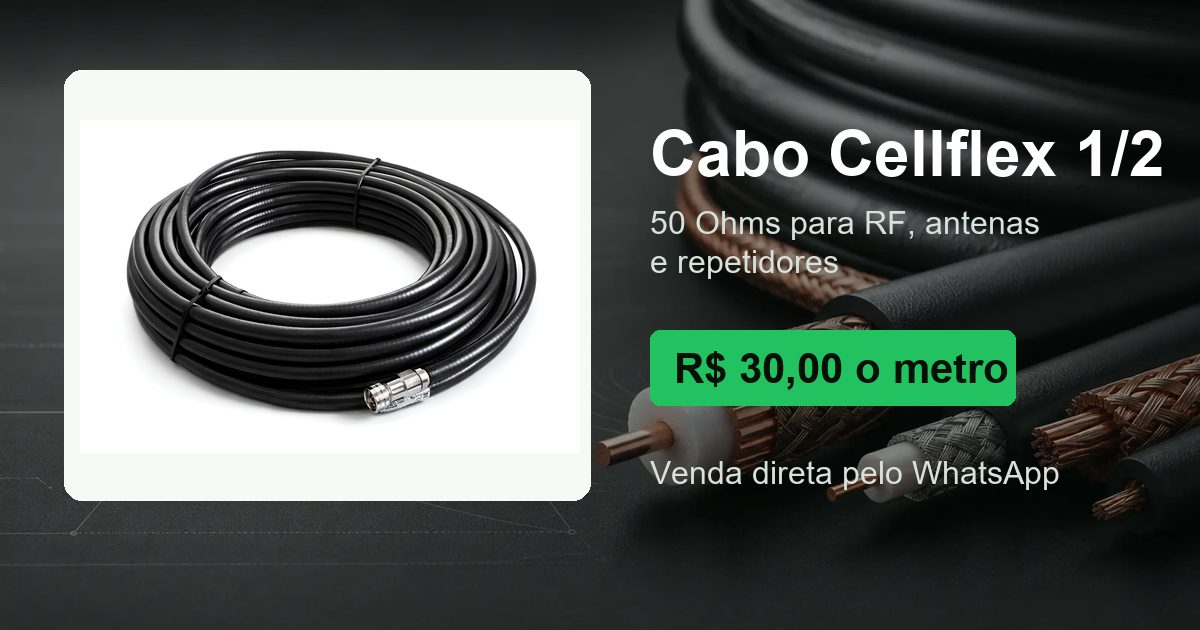
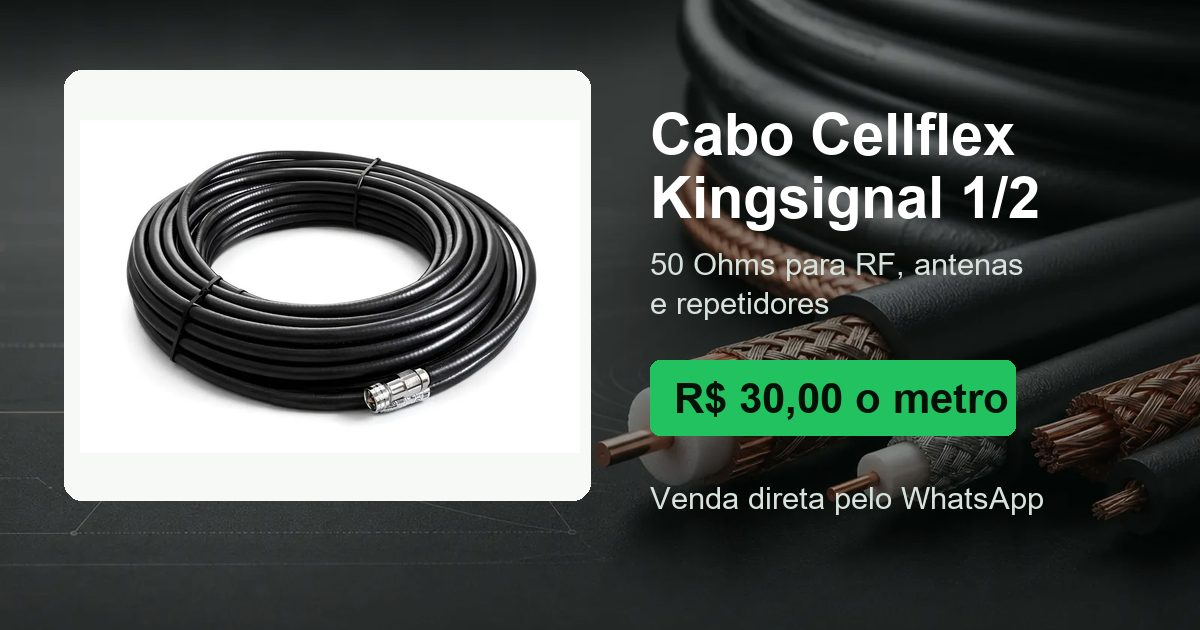
Update landing page for Kingsignal brand and custom domain

Changed region(s): [[0.5242, 0.181, 0.9867, 0.6937], [0.5242, 0.7238, 0.8942, 0.8143]]

diff --git a/index.html b/index.html
@@ -1,26 +1,26 @@
-<!doctype html><html lang="pt-BR"><head><meta charset="utf-8"><meta name="viewport" content="width=device-width,initial-scale=1"><title>Cabo Cellflex 1/2 50 Ohms por metro | R$ 30,00 | WhatsApp</title><meta name="description" content="Compre Cabo Cellflex 1/2 50 Ohms por metro por R$ 30,00. Cabo coaxial para antenas, radio, repetidoras, telecom e instalacoes RF. Atendimento direto pelo WhatsApp."><meta name="robots" content="index, follow"><meta name="theme-color" content="#07100d"><link rel="canonical" href="https://cabo-cellflex.pages.dev/"><link rel="icon" type="image/png" href="assets/favicon.png"><link rel="apple-touch-icon" href="assets/apple-touch-icon.png"><link rel="preload" as="image" href="assets/rf-technical-bg.webp" fetchpriority="high"><link rel="preload" as="image" href="assets/hero-product.jpg" fetchpriority="high"><meta property="og:type" content="product"><meta property="og:locale" content="pt_BR"><meta property="og:title" content="Cabo Cellflex 1/2 por metro"><meta property="og:description" content="Cabo coaxial Cellflex 1/2 50 Ohms por R$ 30,00 o metro. Venda direta pelo WhatsApp."><meta property="og:url" content="https://cabo-cellflex.pages.dev/"><meta property="og:image" content="https://cabo-cellflex.pages.dev/assets/og-cabo-cellflex.jpg"><meta name="twitter:card" content="summary_large_image"><meta name="twitter:title" content="Cabo Cellflex 1/2 50 Ohms por metro"><meta name="twitter:description" content="R$ 30,00 o metro. Atendimento direto pelo WhatsApp."><meta name="twitter:image" content="https://cabo-cellflex.pages.dev/assets/og-cabo-cellflex.jpg"><style>:root{--bg:#f3f6f4;--surface:#ffffff;--ink:#07100d;--muted:#58625d;--line:#d9e0dc;--accent:#18a957;--accent-dark:#087238;--hero:#07100d;--radius:8px;--shadow:0 24px 80px rgb(7 16 13 / 0.18)}*{box-sizing:border-box}html{scroll-behavior:smooth}body{margin:0;background:var(--bg);color:var(--ink);font-family:ui-sans-serif,system-ui,-apple-system,BlinkMacSystemFont,"Segoe UI",sans-serif;font-size:16px;line-height:1.5;text-rendering:optimizeLegibility}img{display:block;max-width:100%;height:auto}a{color:inherit}.skip-link{position:absolute;left:16px;top:-80px;z-index:20;padding:10px 14px;border-radius:var(--radius);background:var(--surface);color:var(--ink);transition:top 160ms ease}.skip-link:focus{top:16px}.page{min-height:100dvh}.container{width:min(1120px,calc(100% - 40px));margin:0 auto}.topbar{position:absolute;inset:0 0 auto;z-index:5;color:#fff}.nav{display:flex;align-items:center;justify-content:space-between;gap:20px;min-height:76px}.brand{display:inline-flex;align-items:center;gap:10px;font-weight:800;text-decoration:none;white-space:nowrap}.brand-mark{width:34px;height:34px;border-radius:7px;background:linear-gradient(135deg,rgb(255 255 255 / .95),rgb(209 233 222 / .72)),var(--accent);position:relative}.brand-mark::after{content:"";position:absolute;left:8px;right:8px;top:15px;height:4px;border-radius:99px;background:var(--hero)}.nav-links{display:flex;align-items:center;gap:24px;font-size:.94rem}.nav-links a{color:rgb(255 255 255 / .82);text-decoration:none}.nav-links a:focus-visible,.nav-links a:hover{color:#fff}.button{display:inline-flex;align-items:center;justify-content:center;min-height:48px;padding:0 20px;border:1px solid transparent;border-radius:var(--radius);font-weight:800;text-decoration:none;white-space:nowrap;transition:transform 140ms ease,background 140ms ease,border-color 140ms ease}.button:active{transform:translateY(1px)}.button-primary{background:var(--accent);color:#041008}.nav-links a.button-primary{color:#041008}.button-primary:focus-visible,.button-primary:hover{background:#2bd06d}.button-secondary{border-color:rgb(255 255 255 / .28);color:#fff;background:rgb(255 255 255 / .06)}.button-secondary:focus-visible,.button-secondary:hover{border-color:rgb(255 255 255 / .55);background:rgb(255 255 255 / .1)}.hero{position:relative;overflow:hidden;min-height:100dvh;padding:120px 0 52px;background:linear-gradient(90deg,rgb(7 16 13 / .96) 0,rgb(7 16 13 / .78) 47%,rgb(7 16 13 / .56) 100%),image-set(url("assets/rf-technical-bg.webp") type("image/webp"));background-size:cover;background-position:center right;color:#fff}.hero-grid{display:grid;grid-template-columns:minmax(0,0.98fr) minmax(320px,0.82fr);align-items:center;gap:48px}.kicker{display:inline-flex;width:fit-content;align-items:center;gap:10px;margin:0 0 18px;padding:8px 10px;border:1px solid rgb(255 255 255 / .18);border-radius:var(--radius);background:rgb(255 255 255 / .08);color:rgb(255 255 255 / .84);font-size:.9rem}.kicker::before{content:"";width:9px;height:9px;border-radius:99px;background:var(--accent);box-shadow:0 0 0 5px rgb(24 169 87 / .18)}h1,h2,h3,p{margin-top:0}h1{max-width:10.8em;margin-bottom:22px;font-size:3.8rem;line-height:1.03;letter-spacing:0}.hero-copy{max-width:590px;margin-bottom:28px;color:rgb(255 255 255 / .82);font-size:1.18rem}.hero-actions{display:flex;flex-wrap:wrap;gap:12px;align-items:center}.price-panel{display:grid;grid-template-columns:auto 1fr;gap:18px;align-items:center;width:fit-content;margin-top:28px;padding:16px;border:1px solid rgb(255 255 255 / .14);border-radius:var(--radius);background:rgb(0 0 0 / .24)}.price{font-size:2rem;font-weight:900;line-height:1;color:#fff}.price small{display:block;margin-top:6px;color:rgb(255 255 255 / .7);font-size:.84rem;font-weight:600}.hero-product{position:relative;align-self:end}.product-frame{display:block;overflow:hidden;border:1px solid rgb(255 255 255 / .18);border-radius:var(--radius);background:#f7faf8;box-shadow:var(--shadow)}.product-frame picture{display:block}.product-frame img{width:100%;aspect-ratio:4/3;object-fit:contain}.hero-product .product-frame{background:#f7faf8 url("assets/hero-product.jpg") center/contain no-repeat}.hero-product .product-frame img{opacity:0}.stock-strip{display:grid;grid-template-columns:repeat(4,1fr);gap:1px;margin-top:18px;overflow:hidden;border:1px solid rgb(255 255 255 / .14);border-radius:var(--radius);background:rgb(255 255 255 / .14)}.stock-strip span{padding:14px 12px;background:rgb(7 16 13 / .76);color:rgb(255 255 255 / .78);font-size:.9rem;text-align:center}.trust-band{background:var(--hero);color:#fff;border-top:1px solid rgb(255 255 255 / .12)}.trust-grid{display:grid;grid-template-columns:repeat(4,1fr);gap:1px;background:rgb(255 255 255 / .12)}.trust-item{padding:20px;background:var(--hero)}.trust-item strong{display:block;margin-bottom:4px;font-size:1rem}.trust-item span{color:rgb(255 255 255 / .66);font-size:.9rem}section{padding:86px 0}.section-head{max-width:720px;margin-bottom:34px}.lead,.section-head p{color:var(--muted);font-size:1.08rem}h2{max-width:760px;margin-bottom:14px;font-size:2.45rem;line-height:1.08;letter-spacing:0}h3{margin-bottom:10px;font-size:1.2rem;line-height:1.25}.split{display:grid;grid-template-columns:minmax(0,0.9fr) minmax(0,1.1fr);gap:42px;align-items:center}.media-block{overflow:hidden;border:1px solid var(--line);border-radius:var(--radius);background:var(--surface)}.visual-bg{background-color:var(--surface);background-position:center;background-repeat:no-repeat;background-size:contain}.visual-bg img{opacity:0}.media-rolo{background-image:url("assets/cabo-cellflex-rolo.webp")}.media-corte{background-image:url("assets/corte-cabo-cellflex.jpg")}.media-conector{background-image:url("assets/conector-uhf-pl259.jpg")}.media-close{background-image:url("assets/conector-pl259-close.jpg")}.media-block img{width:100%;aspect-ratio:5/4;object-fit:contain}.copy-list{display:grid;gap:14px;margin:26px 0 0;padding:0;list-style:none}.copy-list li{position:relative;padding-left:24px;color:var(--muted)}.copy-list li::before{content:"";position:absolute;left:0;top:.72em;width:9px;height:9px;border:2px solid var(--accent);border-radius:99px}.spec-grid{display:grid;grid-template-columns:repeat(4,1fr);gap:14px;margin-top:32px}.faq-item,.spec-card,.use-card{border:1px solid var(--line);border-radius:var(--radius);background:var(--surface)}.spec-card{padding:20px}.spec-card span{display:block;margin-bottom:10px;color:var(--accent-dark);font-size:.86rem;font-weight:800}.spec-card strong{display:block;font-size:1.05rem}.dark-section{background:#101815;color:#fff}.dark-section .lead,.dark-section .section-head p{color:rgb(255 255 255 / .68)}.use-grid{display:grid;grid-template-columns:repeat(3,1fr);gap:14px}.use-card{min-height:178px;padding:22px;background:rgb(255 255 255 / .055);border-color:rgb(255 255 255 / .12)}.use-card p{color:rgb(255 255 255 / .66)}.gallery{display:grid;grid-template-columns:1fr 1fr;gap:14px}.gallery .media-block:first-child{grid-row:span 2}.gallery img{width:100%;aspect-ratio:4/3;object-fit:contain}.buy-box{display:grid;grid-template-columns:minmax(0,0.78fr) minmax(280px,0.42fr);gap:28px;align-items:stretch;padding:30px;border-radius:var(--radius);background:var(--surface);border:1px solid var(--line)}.buy-price{display:flex;flex-direction:column;justify-content:space-between;gap:20px;padding:22px;border-radius:var(--radius);background:#102018;color:#fff}.buy-price strong{display:block;font-size:2.6rem;line-height:1}.buy-price span{color:rgb(255 255 255 / .7)}.steps{display:grid;grid-template-columns:repeat(3,1fr);gap:14px;margin-top:22px}.step{padding:18px;border:1px solid var(--line);border-radius:var(--radius)}.step b{display:block;margin-bottom:8px;color:var(--accent-dark)}.faq-grid{display:grid;gap:12px}details.faq-item{padding:0}summary{cursor:pointer;padding:18px 20px;font-weight:800}summary::marker{color:var(--accent-dark)}details p{margin:0;padding:0 20px 20px;color:var(--muted)}.final-cta{padding:86px 0 104px;background:linear-gradient(90deg,rgb(7 16 13 / .95),rgb(7 16 13 / .72)),image-set(url("assets/rf-technical-bg.webp") type("image/webp"));background-size:cover;background-position:center right;color:#fff}.final-cta p{color:rgb(255 255 255 / .72)}footer{padding:28px 0 86px;border-top:1px solid var(--line);color:var(--muted);font-size:.92rem}.footer-inner{display:flex;justify-content:space-between;gap:18px}.sticky-cta{position:fixed;left:14px;right:14px;bottom:14px;z-index:15;display:none;box-shadow:0 18px 50px rgb(7 16 13 / .32)}:focus-visible{outline:3px solid rgb(43 208 109 / .7);outline-offset:3px}@media (prefers-reduced-motion:reduce){*,::after,::before{scroll-behavior:auto!important;transition-duration:0s!important}}@media (max-width:920px){.container{width:min(100% - 28px,720px)}.nav-links{display:none}.hero{min-height:auto;padding-top:104px}.buy-box,.hero-grid,.split{grid-template-columns:1fr}h1{max-width:11.4em;font-size:2.55rem}h2{font-size:2rem}.hero-copy{font-size:1.04rem}.spec-grid,.steps,.stock-strip,.trust-grid,.use-grid{grid-template-columns:1fr 1fr}}@media (max-width:620px){.hero{padding-bottom:34px}.hero-actions .button{width:100%}.price-panel{width:100%;grid-template-columns:1fr}.gallery,.spec-grid,.steps,.stock-strip,.trust-grid,.use-grid{grid-template-columns:1fr}.gallery .media-block:first-child{grid-row:auto}.buy-box{padding:18px}.buy-price strong{font-size:2.2rem}.final-cta,section{padding:64px 0}.footer-inner{flex-direction:column}.sticky-cta{display:inline-flex}}</style><script type="application/ld+json">{
+<!doctype html><html lang="pt-BR"><head><meta charset="utf-8"><meta name="viewport" content="width=device-width,initial-scale=1"><title>Cabo Cellflex Kingsignal 1/2 50 Ohms por metro | R$ 30,00 | WhatsApp</title><meta name="description" content="Compre Cabo Cellflex Kingsignal 1/2 50 Ohms por metro por R$ 30,00. Cabo coaxial para antenas, radio, repetidoras, telecom e instalacoes RF. Atendimento direto pelo WhatsApp."><meta name="robots" content="index, follow"><meta name="theme-color" content="#07100d"><link rel="canonical" href="https://cabocellflex.com.br/"><link rel="icon" type="image/png" href="assets/favicon.png"><link rel="apple-touch-icon" href="assets/apple-touch-icon.png"><link rel="preload" as="image" href="assets/rf-technical-bg.webp" fetchpriority="high"><link rel="preload" as="image" href="assets/hero-product.jpg" fetchpriority="high"><meta property="og:type" content="product"><meta property="og:locale" content="pt_BR"><meta property="og:title" content="Cabo Cellflex Kingsignal 1/2 por metro"><meta property="og:description" content="Cabo coaxial Kingsignal Cellflex 1/2 50 Ohms por R$ 30,00 o metro. Venda direta pelo WhatsApp."><meta property="og:url" content="https://cabocellflex.com.br/"><meta property="og:image" content="https://cabocellflex.com.br/assets/og-cabo-cellflex.jpg"><meta name="twitter:card" content="summary_large_image"><meta name="twitter:title" content="Cabo Cellflex Kingsignal 1/2 50 Ohms por metro"><meta name="twitter:description" content="R$ 30,00 o metro. Atendimento direto pelo WhatsApp."><meta name="twitter:image" content="https://cabocellflex.com.br/assets/og-cabo-cellflex.jpg"><style>:root{--bg:#f3f6f4;--surface:#ffffff;--ink:#07100d;--muted:#58625d;--line:#d9e0dc;--accent:#18a957;--accent-dark:#087238;--hero:#07100d;--radius:8px;--shadow:0 24px 80px rgb(7 16 13 / 0.18)}*{box-sizing:border-box}html{scroll-behavior:smooth}body{margin:0;background:var(--bg);color:var(--ink);font-family:ui-sans-serif,system-ui,-apple-system,BlinkMacSystemFont,"Segoe UI",sans-serif;font-size:16px;line-height:1.5;text-rendering:optimizeLegibility}img{display:block;max-width:100%;height:auto}a{color:inherit}.skip-link{position:absolute;left:16px;top:-80px;z-index:20;padding:10px 14px;border-radius:var(--radius);background:var(--surface);color:var(--ink);transition:top 160ms ease}.skip-link:focus{top:16px}.page{min-height:100dvh}.container{width:min(1120px,calc(100% - 40px));margin:0 auto}.topbar{position:absolute;inset:0 0 auto;z-index:5;color:#fff}.nav{display:flex;align-items:center;justify-content:space-between;gap:20px;min-height:76px}.brand{display:inline-flex;align-items:center;gap:10px;font-weight:800;text-decoration:none;white-space:nowrap}.brand-mark{width:34px;height:34px;border-radius:7px;background:linear-gradient(135deg,rgb(255 255 255 / .95),rgb(209 233 222 / .72)),var(--accent);position:relative}.brand-mark::after{content:"";position:absolute;left:8px;right:8px;top:15px;height:4px;border-radius:99px;background:var(--hero)}.nav-links{display:flex;align-items:center;gap:24px;font-size:.94rem}.nav-links a{color:rgb(255 255 255 / .82);text-decoration:none}.nav-links a:focus-visible,.nav-links a:hover{color:#fff}.button{display:inline-flex;align-items:center;justify-content:center;min-height:48px;padding:0 20px;border:1px solid transparent;border-radius:var(--radius);font-weight:800;text-decoration:none;white-space:nowrap;transition:transform 140ms ease,background 140ms ease,border-color 140ms ease}.button:active{transform:translateY(1px)}.button-primary{background:var(--accent);color:#041008}.nav-links a.button-primary{color:#041008}.button-primary:focus-visible,.button-primary:hover{background:#2bd06d}.button-secondary{border-color:rgb(255 255 255 / .28);color:#fff;background:rgb(255 255 255 / .06)}.button-secondary:focus-visible,.button-secondary:hover{border-color:rgb(255 255 255 / .55);background:rgb(255 255 255 / .1)}.hero{position:relative;overflow:hidden;min-height:100dvh;padding:120px 0 52px;background:linear-gradient(90deg,rgb(7 16 13 / .96) 0,rgb(7 16 13 / .78) 47%,rgb(7 16 13 / .56) 100%),image-set(url("assets/rf-technical-bg.webp") type("image/webp"));background-size:cover;background-position:center right;color:#fff}.hero-grid{display:grid;grid-template-columns:minmax(0,0.98fr) minmax(320px,0.82fr);align-items:center;gap:48px}.kicker{display:inline-flex;width:fit-content;align-items:center;gap:10px;margin:0 0 18px;padding:8px 10px;border:1px solid rgb(255 255 255 / .18);border-radius:var(--radius);background:rgb(255 255 255 / .08);color:rgb(255 255 255 / .84);font-size:.9rem}.kicker::before{content:"";width:9px;height:9px;border-radius:99px;background:var(--accent);box-shadow:0 0 0 5px rgb(24 169 87 / .18)}h1,h2,h3,p{margin-top:0}h1{max-width:10.8em;margin-bottom:22px;font-size:3.8rem;line-height:1.03;letter-spacing:0}.hero-copy{max-width:590px;margin-bottom:28px;color:rgb(255 255 255 / .82);font-size:1.18rem}.hero-actions{display:flex;flex-wrap:wrap;gap:12px;align-items:center}.price-panel{display:grid;grid-template-columns:auto 1fr;gap:18px;align-items:center;width:fit-content;margin-top:28px;padding:16px;border:1px solid rgb(255 255 255 / .14);border-radius:var(--radius);background:rgb(0 0 0 / .24)}.price{font-size:2rem;font-weight:900;line-height:1;color:#fff}.price small{display:block;margin-top:6px;color:rgb(255 255 255 / .7);font-size:.84rem;font-weight:600}.hero-product{position:relative;align-self:end}.product-frame{display:block;overflow:hidden;border:1px solid rgb(255 255 255 / .18);border-radius:var(--radius);background:#f7faf8;box-shadow:var(--shadow)}.product-frame picture{display:block}.product-frame img{width:100%;aspect-ratio:4/3;object-fit:contain}.hero-product .product-frame{background:#f7faf8 url("assets/hero-product.jpg") center/contain no-repeat}.hero-product .product-frame img{opacity:0}.stock-strip{display:grid;grid-template-columns:repeat(4,1fr);gap:1px;margin-top:18px;overflow:hidden;border:1px solid rgb(255 255 255 / .14);border-radius:var(--radius);background:rgb(255 255 255 / .14)}.stock-strip span{padding:14px 12px;background:rgb(7 16 13 / .76);color:rgb(255 255 255 / .78);font-size:.9rem;text-align:center}.trust-band{background:var(--hero);color:#fff;border-top:1px solid rgb(255 255 255 / .12)}.trust-grid{display:grid;grid-template-columns:repeat(4,1fr);gap:1px;background:rgb(255 255 255 / .12)}.trust-item{padding:20px;background:var(--hero)}.trust-item strong{display:block;margin-bottom:4px;font-size:1rem}.trust-item span{color:rgb(255 255 255 / .66);font-size:.9rem}section{padding:86px 0}.section-head{max-width:720px;margin-bottom:34px}.lead,.section-head p{color:var(--muted);font-size:1.08rem}h2{max-width:760px;margin-bottom:14px;font-size:2.45rem;line-height:1.08;letter-spacing:0}h3{margin-bottom:10px;font-size:1.2rem;line-height:1.25}.split{display:grid;grid-template-columns:minmax(0,0.9fr) minmax(0,1.1fr);gap:42px;align-items:center}.media-block{overflow:hidden;border:1px solid var(--line);border-radius:var(--radius);background:var(--surface)}.visual-bg{background-color:var(--surface);background-position:center;background-repeat:no-repeat;background-size:contain}.visual-bg img{opacity:0}.media-rolo{background-image:url("assets/cabo-cellflex-rolo.webp")}.media-corte{background-image:url("assets/corte-cabo-cellflex.jpg")}.media-conector{background-image:url("assets/conector-uhf-pl259.jpg")}.media-close{background-image:url("assets/conector-pl259-close.jpg")}.media-block img{width:100%;aspect-ratio:5/4;object-fit:contain}.copy-list{display:grid;gap:14px;margin:26px 0 0;padding:0;list-style:none}.copy-list li{position:relative;padding-left:24px;color:var(--muted)}.copy-list li::before{content:"";position:absolute;left:0;top:.72em;width:9px;height:9px;border:2px solid var(--accent);border-radius:99px}.spec-grid{display:grid;grid-template-columns:repeat(4,1fr);gap:14px;margin-top:32px}.faq-item,.spec-card,.use-card{border:1px solid var(--line);border-radius:var(--radius);background:var(--surface)}.spec-card{padding:20px}.spec-card span{display:block;margin-bottom:10px;color:var(--accent-dark);font-size:.86rem;font-weight:800}.spec-card strong{display:block;font-size:1.05rem}.dark-section{background:#101815;color:#fff}.dark-section .lead,.dark-section .section-head p{color:rgb(255 255 255 / .68)}.use-grid{display:grid;grid-template-columns:repeat(3,1fr);gap:14px}.use-card{min-height:178px;padding:22px;background:rgb(255 255 255 / .055);border-color:rgb(255 255 255 / .12)}.use-card p{color:rgb(255 255 255 / .66)}.gallery{display:grid;grid-template-columns:1fr 1fr;gap:14px}.gallery .media-block:first-child{grid-row:span 2}.gallery img{width:100%;aspect-ratio:4/3;object-fit:contain}.buy-box{display:grid;grid-template-columns:minmax(0,0.78fr) minmax(280px,0.42fr);gap:28px;align-items:stretch;padding:30px;border-radius:var(--radius);background:var(--surface);border:1px solid var(--line)}.buy-price{display:flex;flex-direction:column;justify-content:space-between;gap:20px;padding:22px;border-radius:var(--radius);background:#102018;color:#fff}.buy-price strong{display:block;font-size:2.6rem;line-height:1}.buy-price span{color:rgb(255 255 255 / .7)}.steps{display:grid;grid-template-columns:repeat(3,1fr);gap:14px;margin-top:22px}.step{padding:18px;border:1px solid var(--line);border-radius:var(--radius)}.step b{display:block;margin-bottom:8px;color:var(--accent-dark)}.faq-grid{display:grid;gap:12px}details.faq-item{padding:0}summary{cursor:pointer;padding:18px 20px;font-weight:800}summary::marker{color:var(--accent-dark)}details p{margin:0;padding:0 20px 20px;color:var(--muted)}.final-cta{padding:86px 0 104px;background:linear-gradient(90deg,rgb(7 16 13 / .95),rgb(7 16 13 / .72)),image-set(url("assets/rf-technical-bg.webp") type("image/webp"));background-size:cover;background-position:center right;color:#fff}.final-cta p{color:rgb(255 255 255 / .72)}footer{padding:28px 0 86px;border-top:1px solid var(--line);color:var(--muted);font-size:.92rem}.footer-inner{display:flex;justify-content:space-between;gap:18px}.sticky-cta{position:fixed;left:14px;right:14px;bottom:14px;z-index:15;display:none;box-shadow:0 18px 50px rgb(7 16 13 / .32)}:focus-visible{outline:3px solid rgb(43 208 109 / .7);outline-offset:3px}@media (prefers-reduced-motion:reduce){*,::after,::before{scroll-behavior:auto!important;transition-duration:0s!important}}@media (max-width:920px){.container{width:min(100% - 28px,720px)}.nav-links{display:none}.hero{min-height:auto;padding-top:104px}.buy-box,.hero-grid,.split{grid-template-columns:1fr}h1{max-width:11.4em;font-size:2.55rem}h2{font-size:2rem}.hero-copy{font-size:1.04rem}.spec-grid,.steps,.stock-strip,.trust-grid,.use-grid{grid-template-columns:1fr 1fr}}@media (max-width:620px){.hero{padding-bottom:34px}.hero-actions .button{width:100%}.price-panel{width:100%;grid-template-columns:1fr}.gallery,.spec-grid,.steps,.stock-strip,.trust-grid,.use-grid{grid-template-columns:1fr}.gallery .media-block:first-child{grid-row:auto}.buy-box{padding:18px}.buy-price strong{font-size:2.2rem}.final-cta,section{padding:64px 0}.footer-inner{flex-direction:column}.sticky-cta{display:inline-flex}}</style><script type="application/ld+json">{
         "@context": "https://schema.org",
         "@type": "Product",
-        "name": "Cabo Cellflex 1/2 50 Ohms por metro",
-        "description": "Cabo coaxial Cellflex 1/2 50 Ohms para antenas, radio, repetidoras, telecom e instalacoes RF.",
+        "name": "Cabo Cellflex Kingsignal 1/2 50 Ohms por metro",
+        "description": "Cabo coaxial Kingsignal Cellflex 1/2 50 Ohms para antenas, radio, repetidoras, telecom e instalacoes RF.",
         "image": [
-          "https://cabo-cellflex.pages.dev/assets/cabo-cellflex-bobina.webp",
-          "https://cabo-cellflex.pages.dev/assets/conector-uhf-pl259.webp"
+          "https://cabocellflex.com.br/assets/cabo-cellflex-bobina.webp",
+          "https://cabocellflex.com.br/assets/conector-uhf-pl259.webp"
         ],
         "brand": {
           "@type": "Brand",
-          "name": "Cellflex"
+          "name": "Kingsignal"
         },
         "offers": {
           "@type": "Offer",
-          "url": "https://cabo-cellflex.pages.dev/",
+          "url": "https://cabocellflex.com.br/",
           "priceCurrency": "BRL",
           "price": "30.00",
           "availability": "https://schema.org/InStock",
           "itemCondition": "https://schema.org/NewCondition",
           "seller": {
             "@type": "Organization",
-            "name": "Venda direta Cabo Cellflex"
+            "name": "Venda direta Cabo Cellflex Kingsignal"
           },
           "priceSpecification": {
             "@type": "UnitPriceSpecification",
@@ -35,10 +35,10 @@
         "mainEntity": [
           {
             "@type": "Question",
-            "name": "O Cabo Cellflex anunciado e de 50 Ohms?",
+            "name": "O Cabo Cellflex Kingsignal anunciado e de 50 Ohms?",
             "acceptedAnswer": {
               "@type": "Answer",
-              "text": "A oferta e para Cabo Cellflex 1/2 50 Ohms por metro. Confirme a metragem e a aplicacao pelo WhatsApp antes de fechar o pedido."
+              "text": "A oferta e para Cabo Cellflex Kingsignal 1/2 50 Ohms por metro. Confirme a metragem e a aplicacao pelo WhatsApp antes de fechar o pedido."
             }
           },
           {
@@ -46,7 +46,7 @@
             "name": "Serve para antenas, repetidoras e radio?",
             "acceptedAnswer": {
               "@type": "Answer",
-              "text": "Sim. Cabo coaxial Cellflex 1/2 e usado em instalacoes RF que pedem baixa perda, blindagem e robustez, como antenas, repetidoras, radio e telecom."
+              "text": "Sim. Cabo coaxial Kingsignal Cellflex 1/2 e usado em instalacoes RF que pedem baixa perda, blindagem e robustez, como antenas, repetidoras, radio e telecom."
             }
           },
           {
@@ -66,4 +66,4 @@
             }
           }
         ]
-      }</script></head><body><a class="skip-link" href="#conteudo">Ir para o conteudo</a><div class="page"><header class="topbar" aria-label="Topo"><nav class="container nav"><a class="brand" href="#inicio" aria-label="Cabo Cellflex"><span class="brand-mark" aria-hidden="true"></span> <span>Cabo Cellflex</span></a><div class="nav-links" aria-label="Navegacao principal"><a href="#produto">Produto</a> <a href="#aplicacoes">Aplicacoes</a> <a href="#comprar">Preco</a> <a href="#faq">FAQ</a> <a class="button button-primary" href="https://wa.me/5511978746031?text=Ol%C3%A1%2C%20tenho%20interesse%20no%20Cabo%20Cellflex%201%2F2%2050%20Ohms%20a%20R%24%2030%2C00%20o%20metro.%20Pode%20me%20passar%20disponibilidade%3F" rel="noopener" aria-label="Chamar no WhatsApp sobre Cabo Cellflex">WhatsApp</a></div></nav></header><main id="conteudo"><section class="hero" id="inicio" aria-labelledby="hero-title"><div class="container hero-grid"><div><p class="kicker">Cabo coaxial 1/2 para RF</p><h1 id="hero-title">Cabo Cellflex por metro para antenas, radios e repetidores</h1><p class="hero-copy">Baixa perda, blindagem robusta e construcao pronta para instalacoes onde sinal fraco custa dinheiro.</p><div class="hero-actions"><a class="button button-primary" href="https://wa.me/5511978746031?text=Ol%C3%A1%2C%20tenho%20interesse%20no%20Cabo%20Cellflex%201%2F2%2050%20Ohms%20a%20R%24%2030%2C00%20o%20metro.%20Pode%20me%20passar%20disponibilidade%3F" rel="noopener">Chamar no WhatsApp</a> <a class="button button-secondary" href="#produto">Ver detalhes</a></div><div class="price-panel" aria-label="Preco por metro"><div class="price">R$ 30,00 <small>o metro</small></div><p>Informe a metragem e confirme disponibilidade direto no WhatsApp.</p></div></div><div class="hero-product"><div class="product-frame"><img src="assets/hero-product.jpg" width="980" height="653" alt="Rolo de Cabo Cellflex preto com conector UHF na ponta" decoding="async" fetchpriority="high"></div><div class="stock-strip" aria-label="Destaques do produto"><span>1/2 polegada</span> <span>50 Ohms</span> <span>Por metro</span> <span>DDD 11</span></div></div></div></section><div class="trust-band" aria-label="Resumo comercial"><div class="container trust-grid"><div class="trust-item"><strong>Venda direta</strong><span>Sem carrinho complicado</span></div><div class="trust-item"><strong>Corte por metragem</strong><span>Voce pede o tamanho</span></div><div class="trust-item"><strong>Conector sob consulta</strong><span>UHF macho PL-259</span></div><div class="trust-item"><strong>Envio a combinar</strong><span>Resolvido no WhatsApp</span></div></div></div><section id="produto" aria-labelledby="produto-title"><div class="container split"><div class="media-block visual-bg media-rolo"><img src="assets/cabo-cellflex-rolo.webp" width="960" height="640" alt="Rolo de Cabo Cellflex 1/2 preto em fundo claro" loading="lazy" decoding="async"></div><div><div class="section-head"><h2 id="produto-title">Cabo para quem precisa preservar sinal, nao improvisar</h2><p>Cellflex 1/2 e procurado em RF porque combina baixa perda, blindagem e resistencia mecanica melhor que cabos comuns em instalacoes exigentes.</p></div><p class="lead">E o tipo de cabo que faz sentido para antenas, radio, repetidoras, enlaces, telecom e montagens em que cada metro precisa trabalhar a favor do sistema.</p><ul class="copy-list"><li>Construido para aplicacoes de RF com impedancia de 50 Ohms.</li><li>Condutor externo corrugado ajuda na blindagem e na robustez fisica.</li><li>DielÃ©trico em espuma reduz perdas em frequencias altas.</li><li>Venda por metro para voce comprar a medida que precisa.</li></ul></div></div><div class="container spec-grid" aria-label="Especificacoes resumidas"><div class="spec-card"><span>Produto</span><strong>Cabo Cellflex 1/2</strong></div><div class="spec-card"><span>Impedancia</span><strong>50 Ohms</strong></div><div class="spec-card"><span>Preco</span><strong>R$ 30,00 o metro</strong></div><div class="spec-card"><span>Compra</span><strong>Direto pelo WhatsApp</strong></div></div></section><section class="dark-section" id="aplicacoes" aria-labelledby="aplicacoes-title"><div class="container"><div class="section-head"><h2 id="aplicacoes-title">Aplicacoes onde esse cabo entra sem conversa mole</h2><p>O publico certo para esse produto sabe que cabo ruim mata alcance, aumenta perda e vira retrabalho.</p></div><div class="use-grid"><article class="use-card"><h3>Antenas e torres</h3><p>Alimentacao de antenas em instalacoes externas que exigem cabo coaxial mais robusto.</p></article><article class="use-card"><h3>Radio e PX</h3><p>Projetos de comunicacao que precisam de linha de transmissao 50 Ohms com perda menor.</p></article><article class="use-card"><h3>Repetidoras</h3><p>Ambientes onde estabilidade e blindagem ajudam a manter o sistema trabalhando direito.</p></article><article class="use-card"><h3>Telecom</h3><p>Uso em infraestrutura RF, interligacoes e passagens que pedem cabo coaxial de 1/2.</p></article><article class="use-card"><h3>Enlaces e bases</h3><p>Montagens em que a perda do cabo precisa ser levada a serio antes da instalacao.</p></article><article class="use-card"><h3>Montagem sob medida</h3><p>Voce informa metragem e necessidade de conector para confirmar o pedido.</p></article></div></div></section><section aria-labelledby="galeria-title"><div class="container split"><div><div class="section-head"><h2 id="galeria-title">Fotos reais do cabo e do conector</h2><p>Sem banco de imagem enganando comprador. As imagens mostram o rolo, o corte do cabo e o conector UHF macho PL-259.</p></div><p class="lead">Antes de comprar, confirme metragem, uso, conector e envio. Produto tecnico bom nao se vende no chute.</p></div><div class="gallery"><div class="media-block visual-bg media-corte"><img src="assets/corte-cabo-cellflex.jpg" width="760" height="760" alt="Corte de cabo coaxial Cellflex 1/2 mostrando condutor, dieletrico e capa externa" decoding="async"></div><div class="media-block visual-bg media-conector"><img src="assets/conector-uhf-pl259.jpg" width="840" height="553" alt="Conector UHF macho PL-259 para Cabo Cellflex" decoding="async"></div><div class="media-block visual-bg media-close"><img src="assets/conector-pl259-close.jpg" width="720" height="474" alt="Conector PL-259 em detalhe" decoding="async"></div></div></div></section><section id="comprar" aria-labelledby="comprar-title"><div class="container buy-box"><div><h2 id="comprar-title">Compra simples: metragem, confirmacao e WhatsApp</h2><p class="lead">Manda a medida que voce precisa. Se tambem precisar de conector UHF macho PL-259, ja avisa na mensagem para confirmar disponibilidade.</p><div class="steps" aria-label="Passos para comprar"><div class="step"><b>1. Metragem</b><span>Informe quantos metros de Cabo Cellflex voce precisa.</span></div><div class="step"><b>2. Aplicacao</b><span>Diga se e para antena, radio, repetidora ou telecom.</span></div><div class="step"><b>3. Fechamento</b><span>Combine pagamento, retirada ou envio direto no WhatsApp.</span></div></div></div><aside class="buy-price" aria-label="Preco do Cabo Cellflex"><div><span>Preco anunciado</span> <strong>R$ 30,00</strong> <span>por metro</span></div><a class="button button-primary" href="https://wa.me/5511978746031?text=Ol%C3%A1%2C%20quero%20comprar%20Cabo%20Cellflex%201%2F2%2050%20Ohms%20a%20R%24%2030%2C00%20o%20metro.%20Segue%20minha%20metragem%3A" rel="noopener">Fazer pedido</a></aside></div></section><section id="faq" aria-labelledby="faq-title"><div class="container"><div class="section-head"><h2 id="faq-title">Perguntas comuns antes de comprar</h2><p>Resposta direta para tirar a duvida e chamar no WhatsApp com o pedido certo.</p></div><div class="faq-grid"><details class="faq-item"><summary>O Cabo Cellflex anunciado e de 50 Ohms?</summary><p>Sim. A oferta e para Cabo Cellflex 1/2 50 Ohms por metro. Confirme a metragem e a aplicacao antes de fechar.</p></details><details class="faq-item"><summary>Serve para antenas, repetidoras e radio?</summary><p>Serve para aplicacoes RF que pedem cabo coaxial de 50 Ohms, como antenas, radios, repetidoras e telecom. Confirme se sua instalacao pede 1/2.</p></details><details class="faq-item"><summary>O cabo vai com conector UHF macho PL-259?</summary><p>O foco da oferta e o cabo por metro. Se precisar com conector UHF macho PL-259 ou montagem, chame no WhatsApp para confirmar.</p></details><details class="faq-item"><summary>Qual o preco?</summary><p>R$ 30,00 o metro. A disponibilidade, metragem final, retirada ou envio sao confirmados pelo WhatsApp.</p></details></div></div></section><section class="final-cta" aria-labelledby="cta-title"><div class="container"><h2 id="cta-title">Precisa de Cabo Cellflex agora?</h2><p class="lead">Manda a metragem no WhatsApp. Quem sabe o que esta comprando nao precisa de enrolacao.</p><a class="button button-primary" href="https://wa.me/5511978746031?text=Ol%C3%A1%2C%20tenho%20interesse%20no%20Cabo%20Cellflex%201%2F2%2050%20Ohms%20a%20R%24%2030%2C00%20o%20metro.%20Pode%20me%20passar%20disponibilidade%3F" rel="noopener">Chamar no WhatsApp</a></div></section></main><footer><div class="container footer-inner"><span>Cabo Cellflex 1/2 50 Ohms por metro.</span> <span>Preco e disponibilidade sujeitos a confirmacao pelo WhatsApp.</span></div></footer><a class="button button-primary sticky-cta" href="https://wa.me/5511978746031?text=Ol%C3%A1%2C%20quero%20comprar%20Cabo%20Cellflex%201%2F2%2050%20Ohms%20a%20R%24%2030%2C00%20o%20metro.%20Segue%20minha%20metragem%3A" rel="noopener">Comprar pelo WhatsApp</a></div></body></html>
+      }</script></head><body><a class="skip-link" href="#conteudo">Ir para o conteudo</a><div class="page"><header class="topbar" aria-label="Topo"><nav class="container nav"><a class="brand" href="#inicio" aria-label="Cabo Cellflex Kingsignal"><span class="brand-mark" aria-hidden="true"></span> <span>Cabo Cellflex Kingsignal</span></a><div class="nav-links" aria-label="Navegacao principal"><a href="#produto">Produto</a> <a href="#aplicacoes">Aplicacoes</a> <a href="#comprar">Preco</a> <a href="#faq">FAQ</a> <a class="button button-primary" href="https://wa.me/5511978746031?text=Ol%C3%A1%2C%20tenho%20interesse%20no%20Cabo%20Cellflex%20Kingsignal%201%2F2%2050%20Ohms%20a%20R%24%2030%2C00%20o%20metro.%20Pode%20me%20passar%20disponibilidade%3F" rel="noopener" aria-label="Chamar no WhatsApp sobre Cabo Cellflex Kingsignal">WhatsApp</a></div></nav></header><main id="conteudo"><section class="hero" id="inicio" aria-labelledby="hero-title"><div class="container hero-grid"><div><p class="kicker">Cabo coaxial 1/2 para RF</p><h1 id="hero-title">Cabo Cellflex Kingsignal por metro para antenas, radios e repetidores</h1><p class="hero-copy">Baixa perda, blindagem robusta e construcao pronta para instalacoes onde sinal fraco custa dinheiro.</p><div class="hero-actions"><a class="button button-primary" href="https://wa.me/5511978746031?text=Ol%C3%A1%2C%20tenho%20interesse%20no%20Cabo%20Cellflex%20Kingsignal%201%2F2%2050%20Ohms%20a%20R%24%2030%2C00%20o%20metro.%20Pode%20me%20passar%20disponibilidade%3F" rel="noopener">Chamar no WhatsApp</a> <a class="button button-secondary" href="#produto">Ver detalhes</a></div><div class="price-panel" aria-label="Preco por metro"><div class="price">R$ 30,00 <small>o metro</small></div><p>Informe a metragem e confirme disponibilidade direto no WhatsApp.</p></div></div><div class="hero-product"><div class="product-frame"><img src="assets/hero-product.jpg" width="980" height="653" alt="Rolo de Cabo Cellflex Kingsignal preto com conector UHF na ponta" decoding="async" fetchpriority="high"></div><div class="stock-strip" aria-label="Destaques do produto"><span>1/2 polegada</span> <span>50 Ohms</span> <span>Por metro</span> <span>DDD 11</span></div></div></div></section><div class="trust-band" aria-label="Resumo comercial"><div class="container trust-grid"><div class="trust-item"><strong>Venda direta</strong><span>Sem carrinho complicado</span></div><div class="trust-item"><strong>Corte por metragem</strong><span>Voce pede o tamanho</span></div><div class="trust-item"><strong>Conector sob consulta</strong><span>UHF macho PL-259</span></div><div class="trust-item"><strong>Envio a combinar</strong><span>Resolvido no WhatsApp</span></div></div></div><section id="produto" aria-labelledby="produto-title"><div class="container split"><div class="media-block visual-bg media-rolo"><img src="assets/cabo-cellflex-rolo.webp" width="960" height="640" alt="Rolo de Cabo Cellflex Kingsignal 1/2 preto em fundo claro" loading="lazy" decoding="async"></div><div><div class="section-head"><h2 id="produto-title">Cabo para quem precisa preservar sinal, nao improvisar</h2><p>Cellflex 1/2 e procurado em RF porque combina baixa perda, blindagem e resistencia mecanica melhor que cabos comuns em instalacoes exigentes.</p></div><p class="lead">E o tipo de cabo que faz sentido para antenas, radio, repetidoras, enlaces, telecom e montagens em que cada metro precisa trabalhar a favor do sistema.</p><ul class="copy-list"><li>Construido para aplicacoes de RF com impedancia de 50 Ohms.</li><li>Condutor externo corrugado ajuda na blindagem e na robustez fisica.</li><li>Dieletrico em espuma reduz perdas em frequencias altas.</li><li>Venda por metro para voce comprar a medida que precisa.</li></ul></div></div><div class="container spec-grid" aria-label="Especificacoes resumidas"><div class="spec-card"><span>Produto</span><strong>Cabo Cellflex Kingsignal 1/2</strong></div><div class="spec-card"><span>Impedancia</span><strong>50 Ohms</strong></div><div class="spec-card"><span>Preco</span><strong>R$ 30,00 o metro</strong></div><div class="spec-card"><span>Compra</span><strong>Direto pelo WhatsApp</strong></div></div></section><section class="dark-section" id="aplicacoes" aria-labelledby="aplicacoes-title"><div class="container"><div class="section-head"><h2 id="aplicacoes-title">Aplicacoes onde esse cabo entra sem conversa mole</h2><p>O publico certo para esse produto sabe que cabo ruim mata alcance, aumenta perda e vira retrabalho.</p></div><div class="use-grid"><article class="use-card"><h3>Antenas e torres</h3><p>Alimentacao de antenas em instalacoes externas que exigem cabo coaxial mais robusto.</p></article><article class="use-card"><h3>Radio e PX</h3><p>Projetos de comunicacao que precisam de linha de transmissao 50 Ohms com perda menor.</p></article><article class="use-card"><h3>Repetidoras</h3><p>Ambientes onde estabilidade e blindagem ajudam a manter o sistema trabalhando direito.</p></article><article class="use-card"><h3>Telecom</h3><p>Uso em infraestrutura RF, interligacoes e passagens que pedem cabo coaxial de 1/2.</p></article><article class="use-card"><h3>Enlaces e bases</h3><p>Montagens em que a perda do cabo precisa ser levada a serio antes da instalacao.</p></article><article class="use-card"><h3>Montagem sob medida</h3><p>Voce informa metragem e necessidade de conector para confirmar o pedido.</p></article></div></div></section><section aria-labelledby="galeria-title"><div class="container split"><div><div class="section-head"><h2 id="galeria-title">Fotos reais do cabo e do conector</h2><p>Sem banco de imagem enganando comprador. As imagens mostram o rolo, o corte do cabo e o conector UHF macho PL-259.</p></div><p class="lead">Antes de comprar, confirme metragem, uso, conector e envio. Produto tecnico bom nao se vende no chute.</p></div><div class="gallery"><div class="media-block visual-bg media-corte"><img src="assets/corte-cabo-cellflex.jpg" width="760" height="760" alt="Corte de cabo coaxial Cellflex 1/2 mostrando condutor, dieletrico e capa externa" decoding="async"></div><div class="media-block visual-bg media-conector"><img src="assets/conector-uhf-pl259.jpg" width="840" height="553" alt="Conector UHF macho PL-259 para Cabo Cellflex Kingsignal" decoding="async"></div><div class="media-block visual-bg media-close"><img src="assets/conector-pl259-close.jpg" width="720" height="474" alt="Conector PL-259 em detalhe" decoding="async"></div></div></div></section><section id="comprar" aria-labelledby="comprar-title"><div class="container buy-box"><div><h2 id="comprar-title">Compra simples: metragem, confirmacao e WhatsApp</h2><p class="lead">Manda a medida que voce precisa. Se tambem precisar de conector UHF macho PL-259, ja avisa na mensagem para confirmar disponibilidade.</p><div class="steps" aria-label="Passos para comprar"><div class="step"><b>1. Metragem</b><span>Informe quantos metros de Cabo Cellflex Kingsignal voce precisa.</span></div><div class="step"><b>2. Aplicacao</b><span>Diga se e para antena, radio, repetidora ou telecom.</span></div><div class="step"><b>3. Fechamento</b><span>Combine pagamento, retirada ou envio direto no WhatsApp.</span></div></div></div><aside class="buy-price" aria-label="Preco do Cabo Cellflex Kingsignal"><div><span>Preco anunciado</span> <strong>R$ 30,00</strong> <span>por metro</span></div><a class="button button-primary" href="https://wa.me/5511978746031?text=Ol%C3%A1%2C%20quero%20comprar%20Cabo%20Cellflex%20Kingsignal%201%2F2%2050%20Ohms%20a%20R%24%2030%2C00%20o%20metro.%20Segue%20minha%20metragem%3A" rel="noopener">Fazer pedido</a></aside></div></section><section id="faq" aria-labelledby="faq-title"><div class="container"><div class="section-head"><h2 id="faq-title">Perguntas comuns antes de comprar</h2><p>Resposta direta para tirar a duvida e chamar no WhatsApp com o pedido certo.</p></div><div class="faq-grid"><details class="faq-item"><summary>O Cabo Cellflex Kingsignal anunciado e de 50 Ohms?</summary><p>Sim. A oferta e para Cabo Cellflex Kingsignal 1/2 50 Ohms por metro. Confirme a metragem e a aplicacao antes de fechar.</p></details><details class="faq-item"><summary>Serve para antenas, repetidoras e radio?</summary><p>Serve para aplicacoes RF que pedem cabo coaxial de 50 Ohms, como antenas, radios, repetidoras e telecom. Confirme se sua instalacao pede 1/2.</p></details><details class="faq-item"><summary>O cabo vai com conector UHF macho PL-259?</summary><p>O foco da oferta e o cabo por metro. Se precisar com conector UHF macho PL-259 ou montagem, chame no WhatsApp para confirmar.</p></details><details class="faq-item"><summary>Qual o preco?</summary><p>R$ 30,00 o metro. A disponibilidade, metragem final, retirada ou envio sao confirmados pelo WhatsApp.</p></details></div></div></section><section class="final-cta" aria-labelledby="cta-title"><div class="container"><h2 id="cta-title">Precisa de Cabo Cellflex Kingsignal agora?</h2><p class="lead">Manda a metragem no WhatsApp. Quem sabe o que esta comprando nao precisa de enrolacao.</p><a class="button button-primary" href="https://wa.me/5511978746031?text=Ol%C3%A1%2C%20tenho%20interesse%20no%20Cabo%20Cellflex%20Kingsignal%201%2F2%2050%20Ohms%20a%20R%24%2030%2C00%20o%20metro.%20Pode%20me%20passar%20disponibilidade%3F" rel="noopener">Chamar no WhatsApp</a></div></section></main><footer><div class="container footer-inner"><span>Cabo Cellflex Kingsignal 1/2 50 Ohms por metro.</span> <span>Preco e disponibilidade sujeitos a confirmacao pelo WhatsApp.</span></div></footer><a class="button button-primary sticky-cta" href="https://wa.me/5511978746031?text=Ol%C3%A1%2C%20quero%20comprar%20Cabo%20Cellflex%20Kingsignal%201%2F2%2050%20Ohms%20a%20R%24%2030%2C00%20o%20metro.%20Segue%20minha%20metragem%3A" rel="noopener">Comprar pelo WhatsApp</a></div></body></html>

diff --git a/README.md b/README.md
@@ -1,6 +1,6 @@
-# Cabo Cellflex Landing Page
+# Cabo Cellflex Kingsignal Landing Page
 
-Landing page estatica para vender Cabo Cellflex 1/2 50 Ohms por metro.
+Landing page estatica para vender Cabo Cellflex Kingsignal 1/2 50 Ohms por metro.
 
 - Preco anunciado: R$ 30,00 o metro
 - CTA principal: WhatsApp `https://wa.me/5511978746031`
